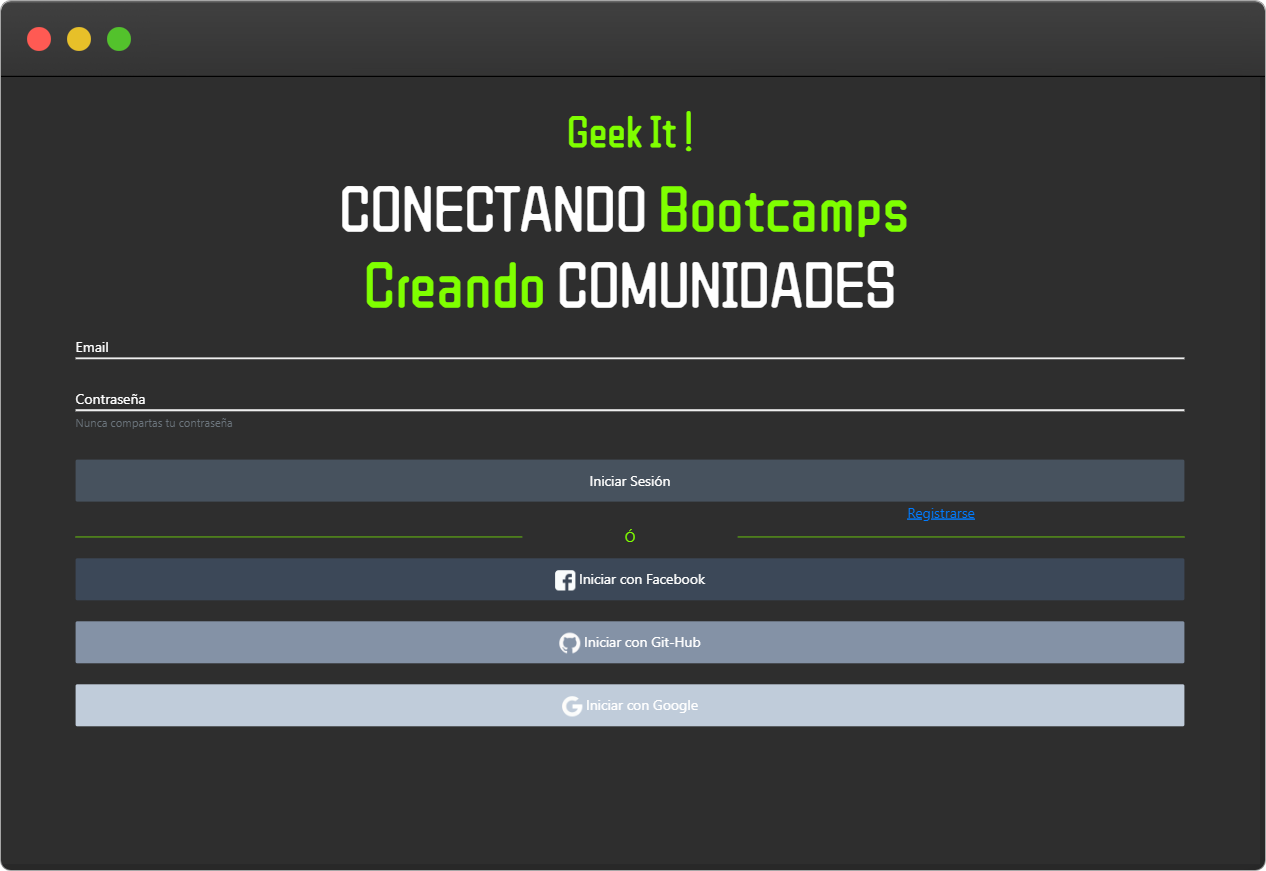
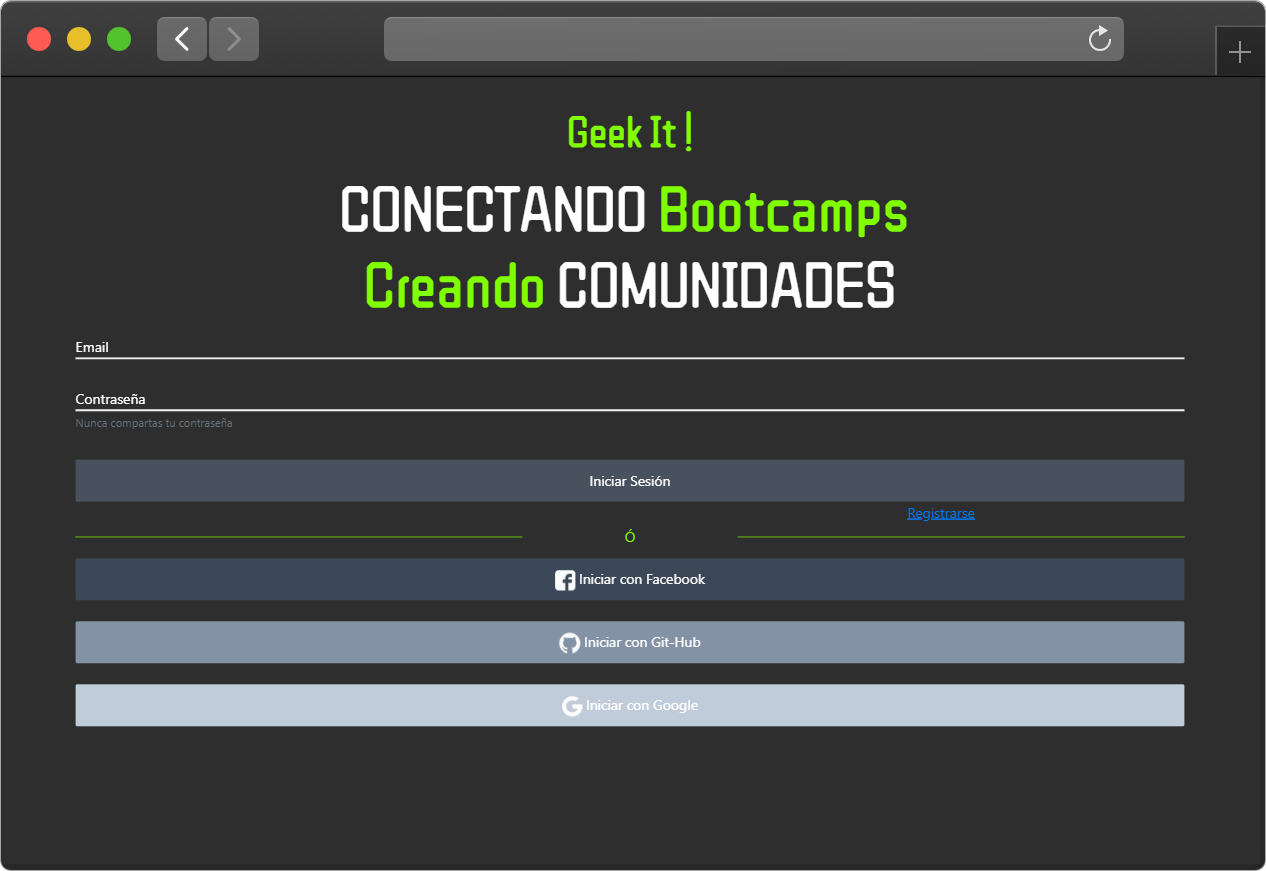
Se agrega media queri para texto de sonbre mi en desktop y en movil

Changed region(s): [[0.2773, 0.0, 0.8934, 0.093], [0.1232, 0.0, 0.2156, 0.093], [0.955, 0.031, 0.9858, 0.062]]

diff --git a/src/index.html b/src/index.html
@@ -115,7 +115,7 @@
               src="https://github.com/ErandiCVC13/Portafolio/blob/master/src/assets/img/datalovers.png?raw=true"
               alt="Card image cap"></div>
               <div class="text-center browser"><img class="px-4 pt-4 img-fluid"
-                src="./assets/img/frame_generic_dark.png"
+                src="./assets/img/Browser-pokedata.png"
                 alt="Card image cap"></div>
           <div class="card-body">
             <h5 class="card-title font-cont font-weight-bolder">DATA-DEX</h5>

diff --git a/src/style.css b/src/style.css
@@ -91,7 +91,7 @@
   border-color: darkgrey;
 }
 
-@media only screen and (max-width: 570px) {
+@media only screen and (max-width: 800px) {
   .celphone {
     display: block !important;
   }
